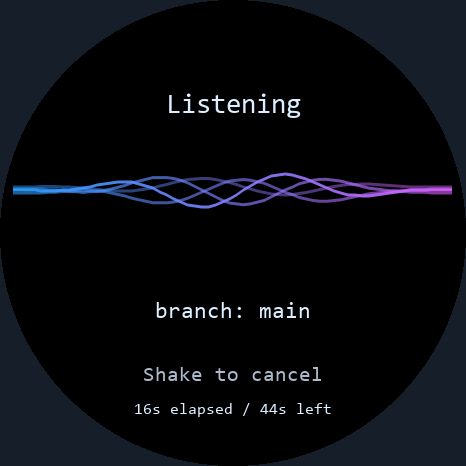
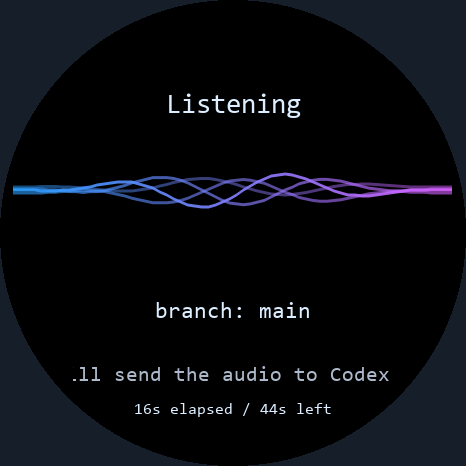
Alternate voice hints above the recording timer

Changed region(s): [[0.2403, 0.7811, 0.8412, 0.8412], [0.1803, 0.7811, 0.2103, 0.8412]]

diff --git a/scripts/generators/generate_cody_connection_atlas.py b/scripts/generators/generate_cody_connection_atlas.py
@@ -488,10 +488,10 @@ def technical_pdf(start_page):
         ),(153,262,WIDTH-84-415))
     add("A ten-second ring tolerates a stalled PC","160000 samples x 2 bytes = 320000 bytes PSRAM; metadata and transport buffers are additional",
         ("STAGE","DEVICE / PC OWNER","BOUNDARY"),(
-            ("Capture and display","Existing AFE enhanced mono 16 kHz PCM and VAD. Wake word or double tap requests Listening; capture begins with the next real AFE block, without wake-word cache or preroll.","Hide Cody. Synthetic wave: four phase-shifted colored curves in a 440 x 40 band; 16 poses at 8 FPS, Q8 antialiasing and alpha overlaps, no runtime trig or voice-amplitude tracking. One row cycles model -> cost band -> thinking effort -> branch -> project, skipping unavailable values with existing fades/scrolling. No fixed cost pill. Below: Shake to cancel, then elapsed and remaining seconds (60-second limit)."),
+            ("Capture and display",'Existing AFE enhanced mono 16 kHz PCM and VAD. Wake word or double tap requests Listening; capture starts with the next real AFE block, without preroll. At the same lower position, alternate exact ASCII captions "Shake to fade" and "We will send the audio to Codex for transcription"; scroll the long caption inside the clipped row.',"Hide Cody. Synthetic wave: four phase-shifted colored curves in a 440 x 40 band; 16 poses at 8 FPS, Q8 antialiasing and alpha overlaps, no runtime trig or voice-amplitude tracking. One row cycles model -> cost band -> thinking effort -> branch -> project, skipping unavailable values with existing fades/scrolling. No fixed cost pill. Elapsed and remaining seconds show the 60-second limit."),
             ("Ring and sender","Every PCM block remains until a valid authenticated ACK arrives. One 480-sample, 960-byte DATA packet is in flight.","Ten seconds is the stalled-link budget. Overflow is an explicit failure; words are never overwritten. No SD or flash fallback. Capture ends after 1.2 seconds of speech silence or at the 60-second limit."),
             ("PC receiver / persistence","Freeze the exact genuine followed thread and turn at START; reject out-of-order PCM. Write a completed 16 kHz, 16-bit mono WAV under private runtime artifacts.","UDP reception and native input have separate workers. Limits: 4 captures/jobs, 64 records, 60 seconds of PCM. The 64 MiB/1024 WAV quota rejects new storage."),
-            ("Pause / deliberate shake","A deliberate shake cancels voice capture; there is no voice Cancel button. Microphone pause stops active capture and transport. If END may have left, the canonical phase is Unconfirmed; otherwise Cancelled.","No automatic wake or restart. Wire CANCEL cannot revoke native submission already in flight; its eventual actual outcome remains visible."),
+            ("Pause / deliberate shake","A deliberate shake cancels Listening or Sending; there is no voice Cancel button. Microphone pause stops active capture and transport. If END may have left, the canonical phase is Unconfirmed; otherwise Cancelled.","No automatic wake or restart. Wire CANCEL cannot revoke native submission already in flight; its eventual actual outcome remains visible. The hint states the intended route, not proof of transcription."),
         ),(139,318,WIDTH-84-457))
     add("PC receipt, native acceptance and work completion","Native endpoint is an explicit integration dependency, not a discovered guarantee",
         ("ACK / NATIVE STEP","SOURCE BEHAVIOR","HONEST OUTCOME"),(
@@ -599,7 +599,7 @@ def main(argv=None):
         RevisionRecord("2026-10-12","Change","One canonical CCP communication reference",(
         "Unify the existing CCP Connection Atlas, former Service Atlas and legacy Codex Connection Atlas into coherent system, commissioning, wire/API, audio and evidence chapters. Keep the separate four-page A5 pairing quickstart as the nontechnical user guide. Preserve earlier meaningful decisions, original page/screen crosswalks and dated Errata, Addendum, Change and Security records.",
         "Current packet fields, order and ceilings; hook/technical projections; clock/name/debug/reset; MCP calls; and resource budgets are source-derived. Metadata remains authenticated plaintext. Audio is a separate AES-256-GCM source increment and does not strengthen six-character commissioning.",
-        "Voice documentation follows source version 0.6.5 and the 12 October UI decision: enhanced PCM from the next real AFE block after wake detection, a ten-second PSRAM ring, authenticated UDP 42119, frozen native thread/turn identity and localAudio input. Capture lasts at most 60 seconds; deliberate shake cancels without a voice Cancel button. Hide Cody. The upper synthetic wave is 40 pixels high. One central row cycles model, cost band, thinking effort, branch, then project; unavailable values are skipped using the existing fade/scroll style. There is no fixed cost pill. Below the row, show Shake to cancel, then both elapsed and remaining seconds. Native endpoint attachment, account/backend, dependencies, installation, cryptographic wire checks, device stack headroom and physical capture/delivery remain unverified. Whole native deadline: 15 seconds; uncertainty never becomes success.",),
+        "Voice documentation follows source version 0.6.5 and the 12 October UI decision: enhanced PCM from the next real AFE block after wake detection, a ten-second PSRAM ring, authenticated UDP 42119, frozen native thread/turn identity and localAudio input. Capture lasts at most 60 seconds; deliberate shake cancels Listening or Sending without a voice Cancel button. Hide Cody. The upper synthetic wave is 40 pixels high. One central row cycles model, cost band, thinking effort, branch, then project; unavailable values are skipped using the existing fade/scroll style. There is no fixed cost pill. The lower hint alternates Shake to fade and We will send the audio to Codex for transcription in the same position; the long message scrolls inside the clipped row. Show both elapsed and remaining seconds. Native endpoint attachment, account/backend, dependencies, installation, cryptographic wire checks, device stack headroom and physical capture/delivery remain unverified. Whole native deadline: 15 seconds; uncertainty never becomes success.",),
         "All three technical source PDFs; A5 quickstart context; current CCP1.md, ccp_voice_input.py and LUNASHELL_voice_input.cpp",
         "PDF generation, rendering and visual review only. No tests, scans, configure/build/size, simulator, flash, hardware or native-input execution.")))
     register = compact_history(history,first_register_page+1)

diff --git a/components/CODY_companion/src/runtime/CODY_companion.cpp b/components/CODY_companion/src/runtime/CODY_companion.cpp
@@ -2844,6 +2844,41 @@ esp_err_t prepare_voice_identity()
     return ESP_OK;
 }
 
+// No parameters: immutable hints alternate on the current input's monotonic clock.
+// Exception: Returns original native font or glyph-window errors.
+esp_err_t prepare_voice_hint()
+{
+    const auto &font = CODY::SceneData::body_font;
+    esp_err_t error = CODY2D::validate_mono_font(font);
+    if (error != ESP_OK) return error;
+    if (font.height > 28) {
+        ESP_LOGE(kTag, "Voice hint height rejected: height=%u", unsigned(font.height));
+        return ESP_ERR_INVALID_SIZE;
+    }
+    static constexpr char transcription[] = "We will send the audio to Codex for transcription";
+    const uint16_t transcription_length = sizeof(transcription) - 1;
+    const uint16_t transcription_width = (transcription_length - 1U) * font.advance + font.width;
+    const uint16_t overflow = transcription_width > 320 ? transcription_width - 320 : 0;
+    constexpr int64_t shake_duration = 4000000;
+    const int64_t transcription_duration = 3500000 + int64_t(overflow) * 35000;
+    const int64_t elapsed = std::max<int64_t>(0,
+        esp_timer_get_time() - s_voice_input_view.input.started_at_us) %
+        (shake_duration + transcription_duration);
+    const bool show_transcription = elapsed >= shake_duration;
+    const char *text = show_transcription ? transcription : "Shake to fade";
+    const uint16_t length = static_cast<uint16_t>(std::strlen(text));
+    const uint16_t width = (length - 1U) * font.advance + font.width;
+    const int64_t caption_elapsed = show_transcription ? elapsed - shake_duration : elapsed;
+    const uint16_t offset = show_transcription ? static_cast<uint16_t>(std::min<int64_t>(overflow,
+        std::max<int64_t>(0, caption_elapsed - 1500000) / 35000)) : 0;
+    // Native measured windows retain the complete literal; the renderer clips the moving edge.
+    error = CODY::prepare_activity_identity_window(font, text, length, width, offset, 0xAD75, s_voice_shake);
+    if (error != ESP_OK) return error;
+    s_voice_shake.origin.y += 65;
+    s_voice_shake.bounds.y += 65;
+    return ESP_OK;
+}
+
 // No parameters: priority input uses a small ribbon, genuine identity carousel and countdown.
 // Exception: Returns canonical, prepared-text, DMA lease or original transfer failure.
 esp_err_t draw_voice_input_rows()
@@ -2856,7 +2891,7 @@ esp_err_t draw_voice_input_rows()
         phase == Phase::Unconfirmed ? "Check on your PC" : "Audio failed";
     esp_err_t error = prepare_voice_caption(title, 92, 0xF7BE, s_voice_title);
     if (error != ESP_OK) return error;
-    error = prepare_voice_caption("Shake to cancel", 365, 0xAD75, s_voice_shake);
+    error = prepare_voice_hint();
     if (error != ESP_OK) return error;
     const int64_t elapsed = std::max<int64_t>(0, esp_timer_get_time() - s_voice_input_view.input.started_at_us);
     const uint32_t used = std::min<uint32_t>(60, phase == Phase::Listening ?
@@ -2882,7 +2917,8 @@ esp_err_t draw_voice_input_rows()
     const size_t pose = static_cast<size_t>((esp_timer_get_time() / 125000) % CODY::kVoiceWaveformFrameCount);
     for (uint16_t row = 0; row < kPanelHeight;) {
         // First retirement clears the old route. Later frames transfer only the changing bands.
-        if (!full && !((row >= 170 && row < 210) || (row >= 300 && row < 328) || (row >= 402 && row < 430))) {
+        if (!full && !((row >= 170 && row < 210) || (row >= 300 && row < 328) ||
+            (row >= 364 && row < 394) || (row >= 402 && row < 430))) {
             row += 2;
             continue;
         }
@@ -2913,7 +2949,18 @@ esp_err_t draw_voice_input_rows()
                 error = CODY2D::draw_text_rows(s_voice_carousel_line, s_voice_carousel_line.text.length, clipped, top, 73);
             }
         }
-        if (error == ESP_OK && cancellable) error = CODY2D::draw_text_rows(s_voice_shake, s_voice_shake.text.length, strip, row, 0);
+        if (error == ESP_OK && cancellable) {
+            const uint16_t top = std::max<uint16_t>(row, 365);
+            const uint16_t bottom = std::min<uint16_t>(row + rows, 393);
+            if (top < bottom) {
+                CODY2D::Surface clipped = strip;
+                clipped.pixels += (top - row) * strip.stride + 73;
+                clipped.pixel_capacity -= (top - row) * strip.stride + 73;
+                clipped.width = 320;
+                clipped.height = bottom - top;
+                error = CODY2D::draw_text_rows(s_voice_shake, s_voice_shake.text.length, clipped, top, 73);
+            }
+        }
         if (error == ESP_OK) error = CODY2D::draw_text_rows(s_voice_timer, s_voice_timer.text.length, strip, row, 0);
         if (error == ESP_OK) error = LUNASHELL_display_frame_submit_rgb565(0, row, 466, row + rows, storage);
         if (error != ESP_OK) return error;

diff --git a/scripts/generators/generate_cody_voice_proposals.py b/scripts/generators/generate_cody_voice_proposals.py
@@ -55,7 +55,16 @@ def proposal(index, pose=None):
                 image.putpixel((x, y), tuple(round(a * opacity + b * (1 - opacity)) for a, b in zip(color, background)))
     labels = ['model: gpt-6.1', 'cost: Balanced', 'effort: high', 'branch: main', 'Cody']
     centered(draw, labels[index % 5], 300, 23, '#dceeff')
-    centered(draw, 'Shake to cancel', 365, 21, '#adb9cb')
+    if index % 2 == 0:
+        centered(draw, 'Shake to fade', 365, 21, '#adb9cb')
+    else:
+        # A native-width clipped row illustrates the long message's measured scroll.
+        hint = Image.new('RGB', (320, 28), 'black')
+        hint_draw = ImageDraw.Draw(hint)
+        hint_draw.text((-((index // 2) * 55), 0),
+                       'We will send the audio to Codex for transcription',
+                       font=font(21), fill='#adb9cb')
+        image.paste(hint, (73, 365))
     used = 1 + index * 5
     centered(draw, f'{used:02}s elapsed / {60 - used:02}s left', 402, 16, '#dceeff')
     return image
@@ -88,7 +97,9 @@ def main():
     (OUTPUT / 'README.md').write_text('# Voice screen proposals\n\nTen synthetic design studies, not device captures. '
         'Project/model/branch/cost captions are illustrative and never enter firmware snapshots. '
         'The firmware shares only the sixteen immutable waveform poses. The model price is a catalog '
-        'cost band, not dollars or a measured session bill.\n', encoding='ascii')
+        'cost band, not dollars or a measured session bill. The lower row alternates '
+        'Shake to fade with We will send the audio to Codex for transcription; '
+        'the long message scrolls within the clipped row. Shake still cancels input.\n', encoding='ascii')
     print(f'Authored ten proposals and contact sheet under {OUTPUT}')
 
 if __name__ == '__main__':

diff --git a/docs/cody/runtime.md b/docs/cody/runtime.md
@@ -490,12 +490,15 @@ animation are suspended behind a synthetic ribbon at 8 FPS: sixteen immutable
 poses in a 440 x 40 logical-pixel band. Four phase-shifted curves use lightweight
 Q8 edge coverage and alpha composition for smooth overlaps; there is no runtime
 trigonometry, 3D rendering or microphone-amplitude following. After the first full retirement, only the
-ribbon, single identity row and timer bands transfer again. One measured,
+ribbon, single identity row, alternating hint and timer bands transfer again. One measured,
 fading/scrolling row cycles model, catalog cost band, thinking effort, branch,
 then project; unavailable fields disappear. No numeric price or bill is invented.
 The bottom timer shows elapsed and remaining seconds within the sixty-second
 budget, starting at `00s elapsed / 60s left`. Deliberate shake is the only cancellation
-gesture; there is no voice button or touch action. It cannot revoke a turn
+gesture; the hint alternates `Shake to fade` and
+`We will send the audio to Codex for transcription` in the same lower row.
+The full second message scrolls inside a clipped 320 x 28 viewport before repeating.
+The requested fade wording still invokes cancellation; there is no voice button or touch action. It cannot revoke a turn
 already accepted by Codex. End of
 speech uses 1.2 seconds of actual VAD silence after speech, with an eight-second
 no-speech deadline and a 60-second maximum utterance. The overall capture/delivery

diff --git a/docs/cody/ui-proposals/20261012-voice/README.md b/docs/cody/ui-proposals/20261012-voice/README.md
@@ -1,3 +1,3 @@
 # Voice screen proposals
 
-Ten synthetic design studies, not device captures. Project/model/branch/cost captions are illustrative and never enter firmware snapshots. The firmware shares only the sixteen immutable waveform poses. The model price is a catalog cost band, not dollars or a measured session bill.
+Ten synthetic design studies, not device captures. Project/model/branch/cost captions are illustrative and never enter firmware snapshots. The firmware shares only the sixteen immutable waveform poses. The model price is a catalog cost band, not dollars or a measured session bill. The lower row alternates Shake to fade with We will send the audio to Codex for transcription; the long message scrolls within the clipped row. Shake still cancels input.

diff --git a/done.md b/done.md
@@ -21,6 +21,9 @@ private local diagnostics, not publication artifacts.
   elapsed/remaining seconds and one measured fade/scroll carousel ordered model,
   catalog cost band, thinking effort, branch, project. Unavailable captions disappear
   and no price is invented. The character remains hidden.
+- Changed the lower hint to alternate `Shake to fade` and
+  `We will send the audio to Codex for transcription`, with measured scrolling
+  inside the existing clipped row. Deliberate shake retains cancellation semantics.
 - Added sixteen synthetic waveform poses (1,024 bytes), a 440 x 40 logical-pixel
   ribbon with four phase-shifted curves, lightweight Q8 anti-aliasing and alpha
   composition, plus partial changing-band transfers after the first retirement.
